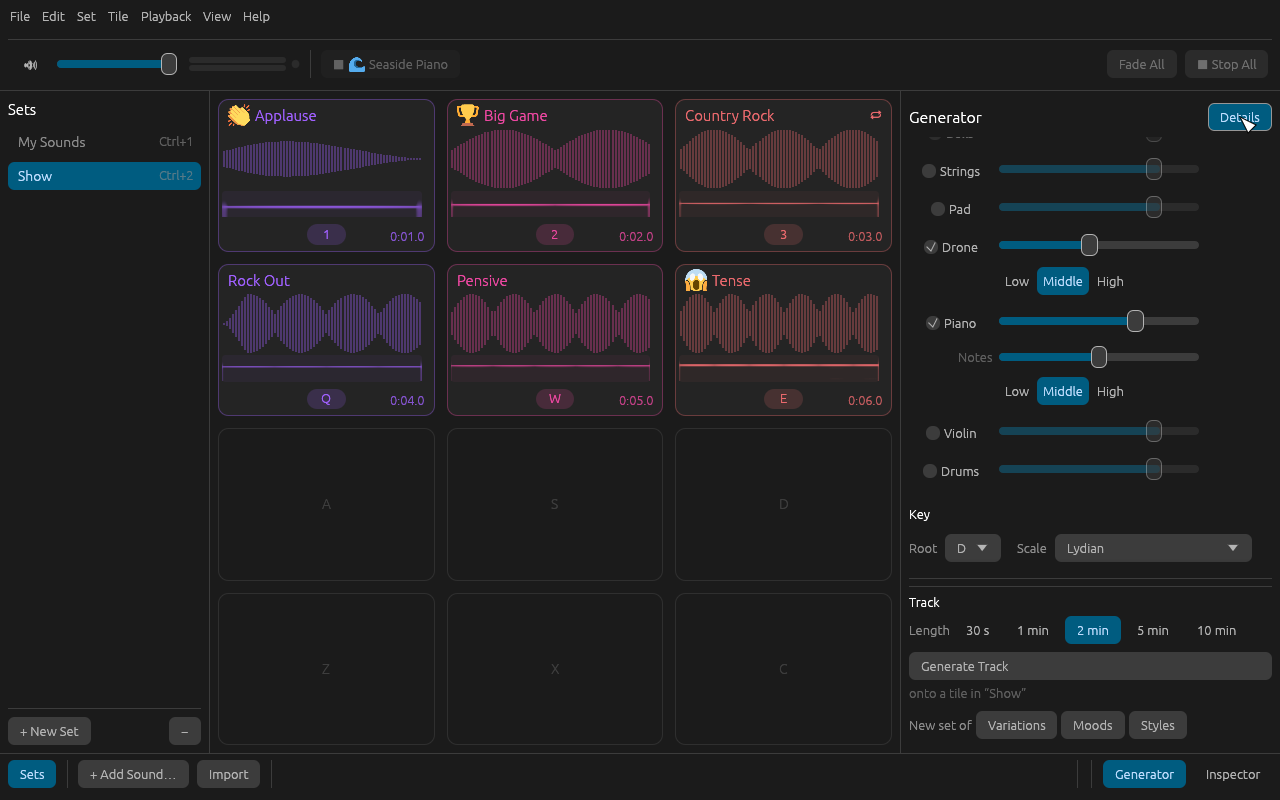
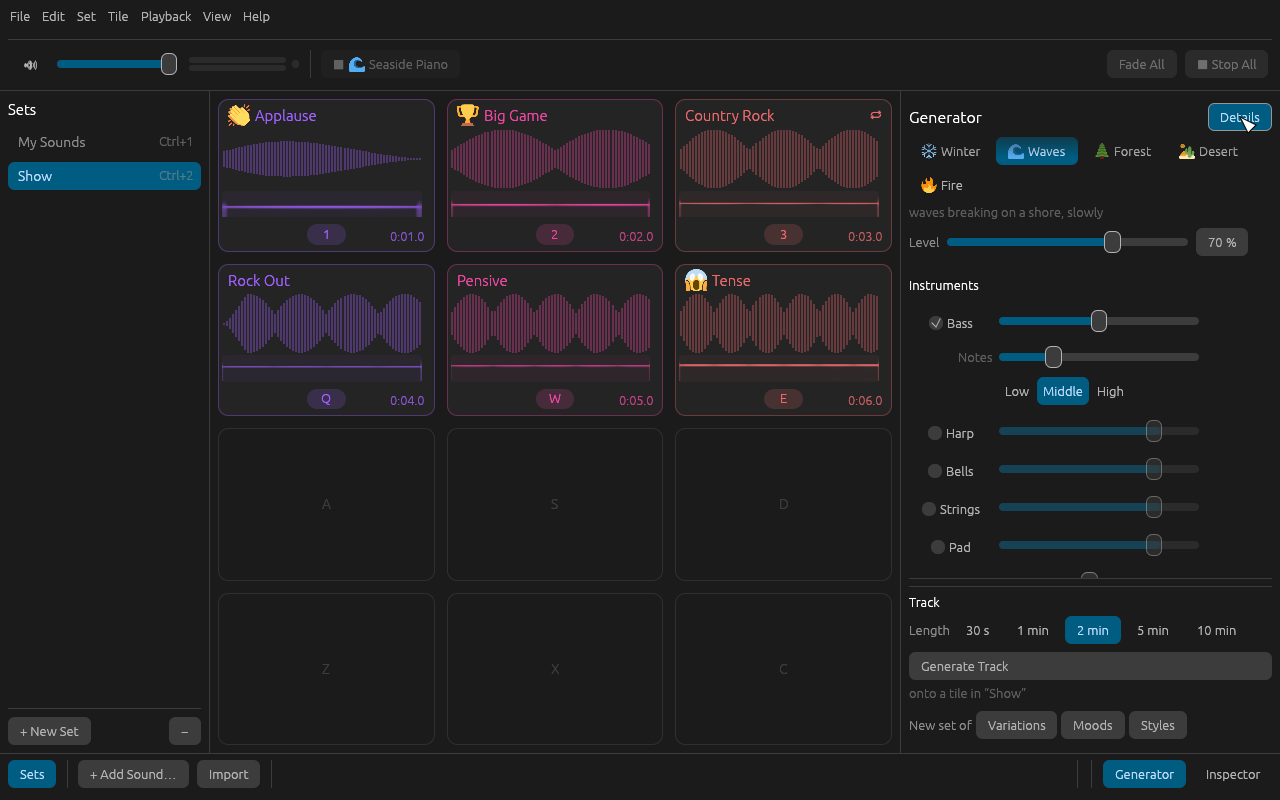
Give the Generator's background a level of its own
Under the background choices, a Level slider sets how loud the rain,
wind, waves or fire are against the instruments, live and in tracks:
70 %, where it starts, is as each background was made; 100 % is about
twice as loud, 0 silent, on a square law like the master volume, and
a change glides over a tenth of a second. It hides with no background.
It belongs to the style, so moving it makes the settings Custom and a
saved style keeps it; settings saved before load at 70 %.

diff --git a/crates/audio/src/ambience/mod.rs b/crates/audio/src/ambience/mod.rs
@@ -786,6 +786,16 @@ impl Form {
 
 // ----- the settings and styles ---------------------------------------------
 
+/// Where the background's level sits unless moved.
+pub const DEFAULT_BACKGROUND_LEVEL: f32 = 0.7;
+
+/// The gain for a background level: a square law, so the slider sounds
+/// even along its length; 1 at the default.
+fn background_gain(level: f32) -> f32 {
+    let ratio = level / DEFAULT_BACKGROUND_LEVEL;
+    ratio * ratio
+}
+
 /// Where variety and concentration sit unless moved: the middle.
 pub const DEFAULT_VARIETY: f32 = 0.5;
 pub const DEFAULT_CONCENTRATION: f32 = 0.5;
@@ -820,6 +830,10 @@ pub struct AmbienceSettings {
     pub chaos: f32,
     /// The whole bed, 0 to 1; even 1 is well under the sounds.
     pub level: f32,
+    /// The background's own level against the instruments, 0 to 1:
+    /// [`DEFAULT_BACKGROUND_LEVEL`] is as it was made, 1 about twice as
+    /// loud, 0 silent.
+    pub background_level: f32,
     /// Quieter while any sound plays.
     pub duck: bool,
     /// Makes the bed repeatable; change it for a new variation.
@@ -844,6 +858,7 @@ impl AmbienceSettings {
             }
         };
         self.level = unit(self.level, 0.35);
+        self.background_level = unit(self.background_level, DEFAULT_BACKGROUND_LEVEL);
         self.variety = unit(self.variety, DEFAULT_VARIETY);
         self.concentration = unit(self.concentration, DEFAULT_CONCENTRATION);
         self.chaos = unit(self.chaos, 0.0);
@@ -1161,6 +1176,7 @@ impl Style {
             concentration: DEFAULT_CONCENTRATION,
             chaos: 0.0,
             level,
+            background_level: DEFAULT_BACKGROUND_LEVEL,
             duck: true,
             seed: 1,
         }
@@ -1296,6 +1312,7 @@ pub fn surprise(seed: u64) -> AmbienceSettings {
         concentration,
         chaos,
         level: rng.range(0.35, 0.45),
+        background_level: DEFAULT_BACKGROUND_LEVEL,
         duck: true,
         seed: seed.max(1),
     }
@@ -1371,6 +1388,8 @@ pub struct Ambience {
     /// On and off, slowly.
     gain: Ramp,
     duck: Ramp,
+    /// The background against the instruments.
+    bed_gain: Ramp,
 }
 
 impl Ambience {
@@ -1390,6 +1409,7 @@ impl Ambience {
             clock: 0,
             gain: Ramp::at(0.0),
             duck: Ramp::at(1.0),
+            bed_gain: Ramp::at(1.0),
         }
     }
 
@@ -1467,6 +1487,10 @@ impl Ambience {
         if self.duck.target() != duck_target {
             self.duck.towards(duck_target, self.rate / 3);
         }
+        let bed_target = background_gain(self.settings.background_level);
+        if self.bed_gain.target() != bed_target {
+            self.bed_gain.towards(bed_target, self.rate / 10);
+        }
         let (from, to) = (self.clock, self.clock + frames as u64);
         if self.settings.enabled {
             // A composer about to start begins its first piece now.
@@ -1487,7 +1511,10 @@ impl Ambience {
                 self.synth.play(event, &self.heard);
             }
             let gain = self.gain.next() * self.duck.next() * level;
+            let bed_gain = self.bed_gain.next();
             let (mut left, mut right) = self.bed.next();
+            left *= bed_gain;
+            right *= bed_gain;
             let (sl, sr) = self.synth.next(music_gain);
             left = (left + sl) * gain;
             right = (right + sr) * gain;
@@ -1562,6 +1589,7 @@ mod tests {
             (DEFAULT_VARIETY, DEFAULT_CONCENTRATION, 0.0),
             "saved before the character, in the middle and in the key"
         );
+        assert_eq!(settings.background_level, DEFAULT_BACKGROUND_LEVEL);
         let harp = settings.layer(Instrument::Harp);
         assert!(harp.enabled && harp.register == Register::High);
         assert_eq!(
@@ -1653,6 +1681,37 @@ mod tests {
         assert_eq!(backgrounds.len(), Background::ALL.len());
         assert_eq!(instruments.len(), Instrument::COUNT);
         assert_ne!(surprise(1), surprise(2));
+    }
+
+    #[test]
+    fn the_background_has_its_own_level_beside_the_instruments() {
+        let rate = 48_000;
+        // The background alone, its level over the last second.
+        let level = |background_level: f32| {
+            let mut settings = Style::RainStudy.settings();
+            settings.enabled = true;
+            settings.background_level = background_level;
+            for instrument in Instrument::ALL {
+                settings.layers[instrument].enabled = false;
+            }
+            let mut ambience = Ambience::new(rate as u32, 4);
+            ambience.set(settings);
+            let mut out = vec![0.0; rate * 4 * 2];
+            let mut bus = vec![0.0; rate * 4 * 2];
+            ambience.render(&mut out, &mut bus, 2, false);
+            let last = &out[out.len() - rate * 2..];
+            (last.iter().map(|s| s * s).sum::<f32>() / last.len() as f32).sqrt()
+        };
+        let made = level(DEFAULT_BACKGROUND_LEVEL);
+        let half = level(DEFAULT_BACKGROUND_LEVEL / 2.0);
+        let full = level(1.0);
+        assert!(made > 0.0);
+        assert!(
+            (half / made - 0.25).abs() < 0.03,
+            "a quarter as loud: {half} / {made}"
+        );
+        assert!(full > made * 1.8, "louder: {full} / {made}");
+        assert_eq!(level(0.0), 0.0, "silent");
     }
 
     #[test]

diff --git a/crates/app/tests/window.rs b/crates/app/tests/window.rs
@@ -1083,6 +1083,32 @@ fn each_instrument_plays_as_many_notes_as_its_slider_says() {
 }
 
 #[test]
+fn the_background_has_a_level_of_its_own() {
+    use egui::accesskit::Role;
+    use olio_audio::ambience::DEFAULT_BACKGROUND_LEVEL;
+    let dir = tempfile::tempdir().unwrap();
+    let mut harness = window(library(dir.path()), false);
+    open_generator(&mut harness);
+    assert_eq!(
+        harness.state().preferences().ambience.background_level,
+        DEFAULT_BACKGROUND_LEVEL
+    );
+    // Among the essentials, beside the backgrounds.
+    set_slider(&mut harness, "Background level", 30.0);
+    let settings = harness.state().preferences().ambience;
+    assert!((settings.background_level - 0.3).abs() < 1e-3);
+    assert_eq!(settings.describe(), "Custom: D Dorian");
+    // No background, nothing to set.
+    click_in_generator(&mut harness, "None");
+    assert_eq!(
+        harness
+            .query_all_by_role_and_label(Role::Slider, "Background level")
+            .count(),
+        0
+    );
+}
+
+#[test]
 fn the_generator_character_sliders_move_and_make_the_settings_custom() {
     use olio_audio::ambience::Mood;
     let dir = tempfile::tempdir().unwrap();
@@ -1664,10 +1690,11 @@ fn render_the_window_to_a_png() {
     harness.get_by_label_contains("building up");
     let image = harness.render().expect("a GPU adapter to render with");
     image.save(out.join("window-generator.png")).unwrap();
-    // And with every setting, down to each instrument's level and notes.
+    // And with every setting: the background's level, each instrument's
+    // level and notes.
     show_details(&mut harness);
     harness
-        .get_by_role_and_label(egui::accesskit::Role::Slider, "Piano notes")
+        .get_by_role_and_label(egui::accesskit::Role::Slider, "Bass notes")
         .scroll_to_me();
     harness.run_steps(20);
     let image = harness.render().expect("a GPU adapter to render with");

diff --git a/crates/app/src/generator.rs b/crates/app/src/generator.rs
@@ -974,6 +974,35 @@ fn background(ui: &mut Ui, settings: &mut AmbienceSettings, images: &EmojiImages
         }
     });
     ui.weak(settings.background.describe());
+    // Its own level, against the instruments: in one scope, so whether it
+    // shows never moves the ids of the widgets below.
+    ui.scope(|ui| {
+        if settings.background == Background::None {
+            return;
+        }
+        ui.add_space(2.0);
+        ui.horizontal(|ui| {
+            ui.label("Level");
+            let mut percent = settings.background_level * 100.0;
+            inspector::fill_with_slider(ui);
+            let slider = egui::Slider::new(&mut percent, 0.0..=100.0)
+                .suffix(" %")
+                .max_decimals(0);
+            let response = menu::keeps_arrows(ui.add(slider));
+            response.widget_info(|| {
+                egui::WidgetInfo::slider(true, f64::from(percent), "Background level")
+            });
+            if response
+                .on_hover_text(format!(
+                    "How loud the {} is against the instruments",
+                    settings.background.name().to_lowercase()
+                ))
+                .changed()
+            {
+                settings.background_level = percent / 100.0;
+            }
+        });
+    });
 }
 
 /// Each instrument on or off, side by side.

diff --git a/README.md b/README.md
@@ -73,7 +73,7 @@ Milestone 0, the playable skeleton, is done. Olio can:
   for fine adjustment:
   - **a background**: rain, distant thunder, wind, a winter wind, waves
     on a shore, a forest with a bird now and then, a desert wind, or a
-    crackling fire;
+    crackling fire, with a level of its own against the instruments;
   - **up to nine instruments**: a plucked bass, a harp, bells, bowed
     strings, a pad, a drone, a piano, a plucked violin and soft hand
     drums (a frame drum and a shaker), each with its own level, a Notes

diff --git a/GLOSSARY.md b/GLOSSARY.md
@@ -159,7 +159,8 @@ _Avoid_: recording, export, song
 
 **Background**:
 The sound under the generated music: rain, thunder, wind, winter, waves,
-a forest, a desert, a fire, or none.
+a forest, a desert, a fire, or none, with a level of its own against the
+instruments (its Level slider in the Generator).
 _Avoid_: weather (only some are), noise, ambience (that is the whole)
 
 **Style**:
